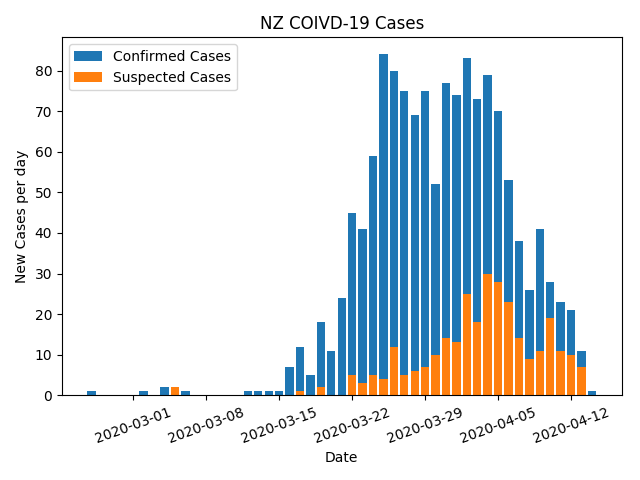
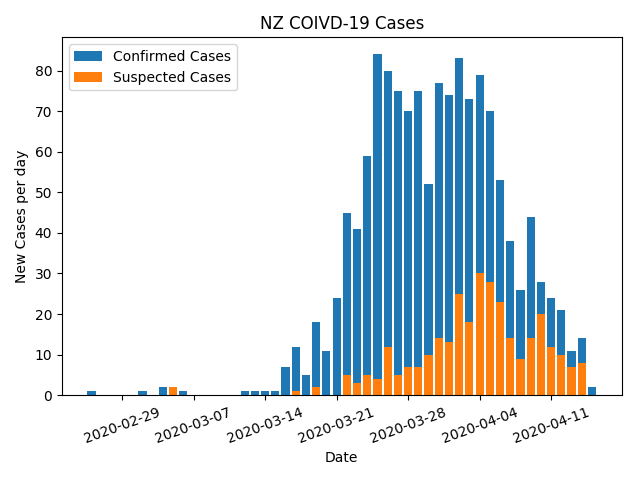
Updated Data

Changed region(s): [[0.125, 0.0938, 0.9688, 0.9375]]

diff --git a/NZModel/nz_data.py b/NZModel/nz_data.py
@@ -37,7 +37,8 @@ header=3
 #filename = "case-list-11-april-2020-for-web.xlsx"
 #filename = "case-list-12-april-2020-for-web.xlsx"
 #filename = "covid-case-list-13april2020.xlsx"
-filename = "covid-caselist-14april.xlsx"
+#filename = "covid-caselist-14april.xlsx"
+filename = "covidcase_list_15_april_2020.xlsx"
 
 # Confirmed Infection Cases
 data_conf = pd.read_excel(filename, header=header)
